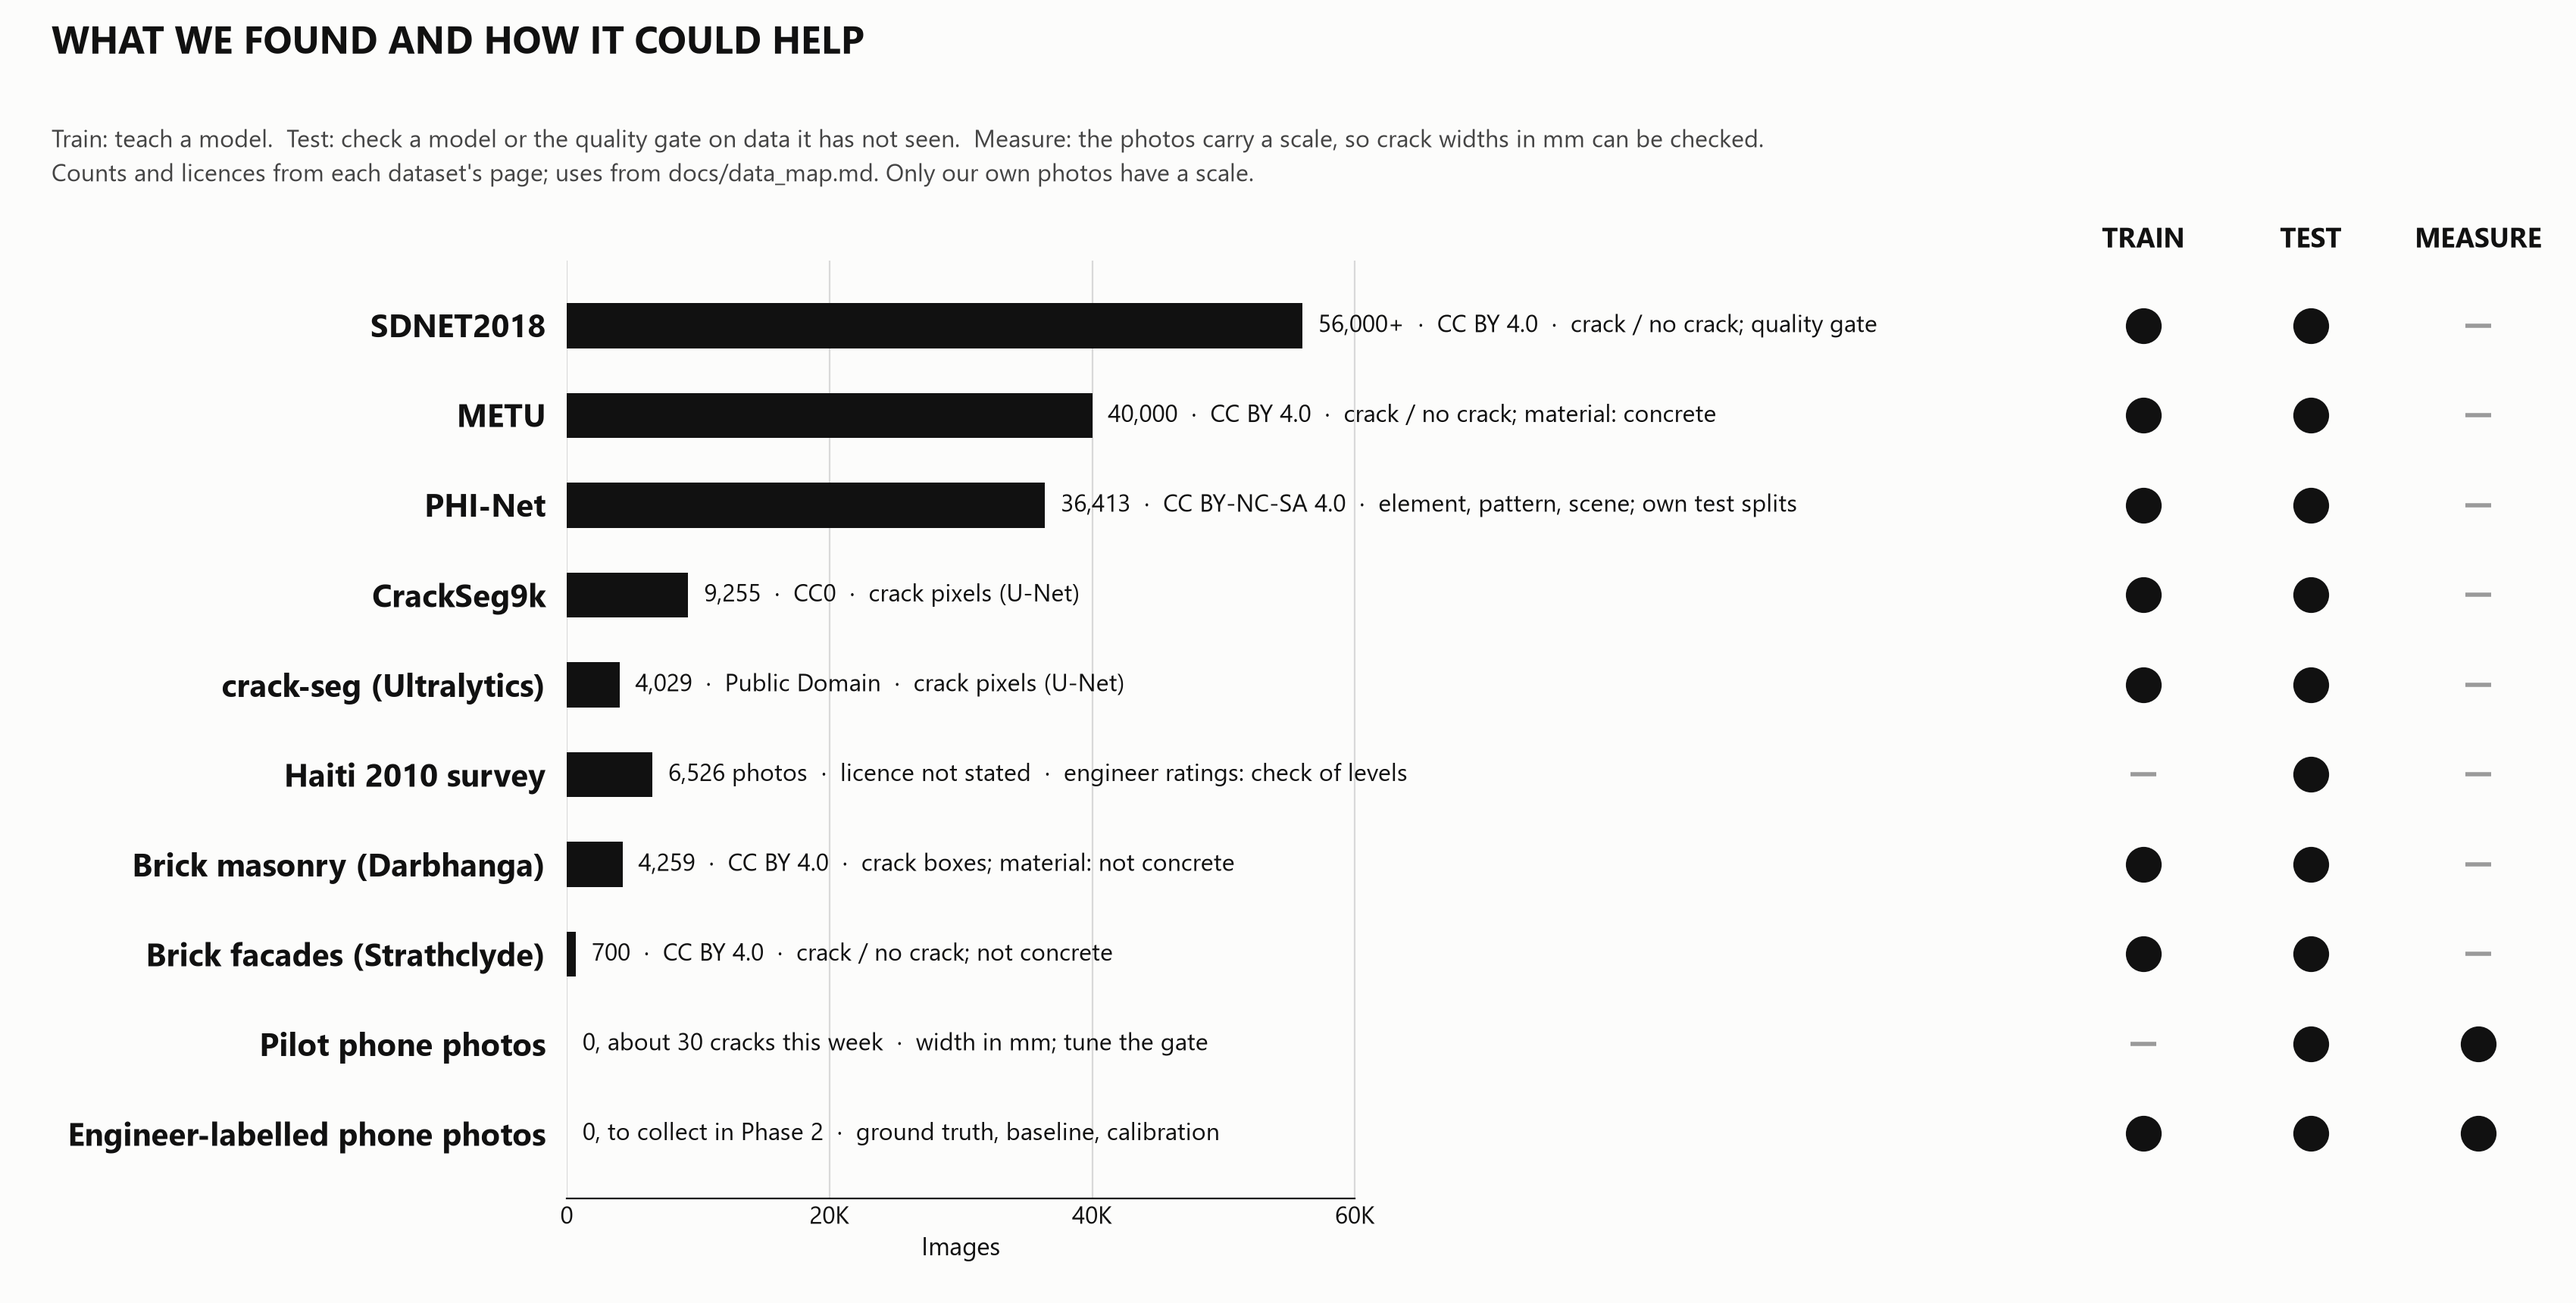
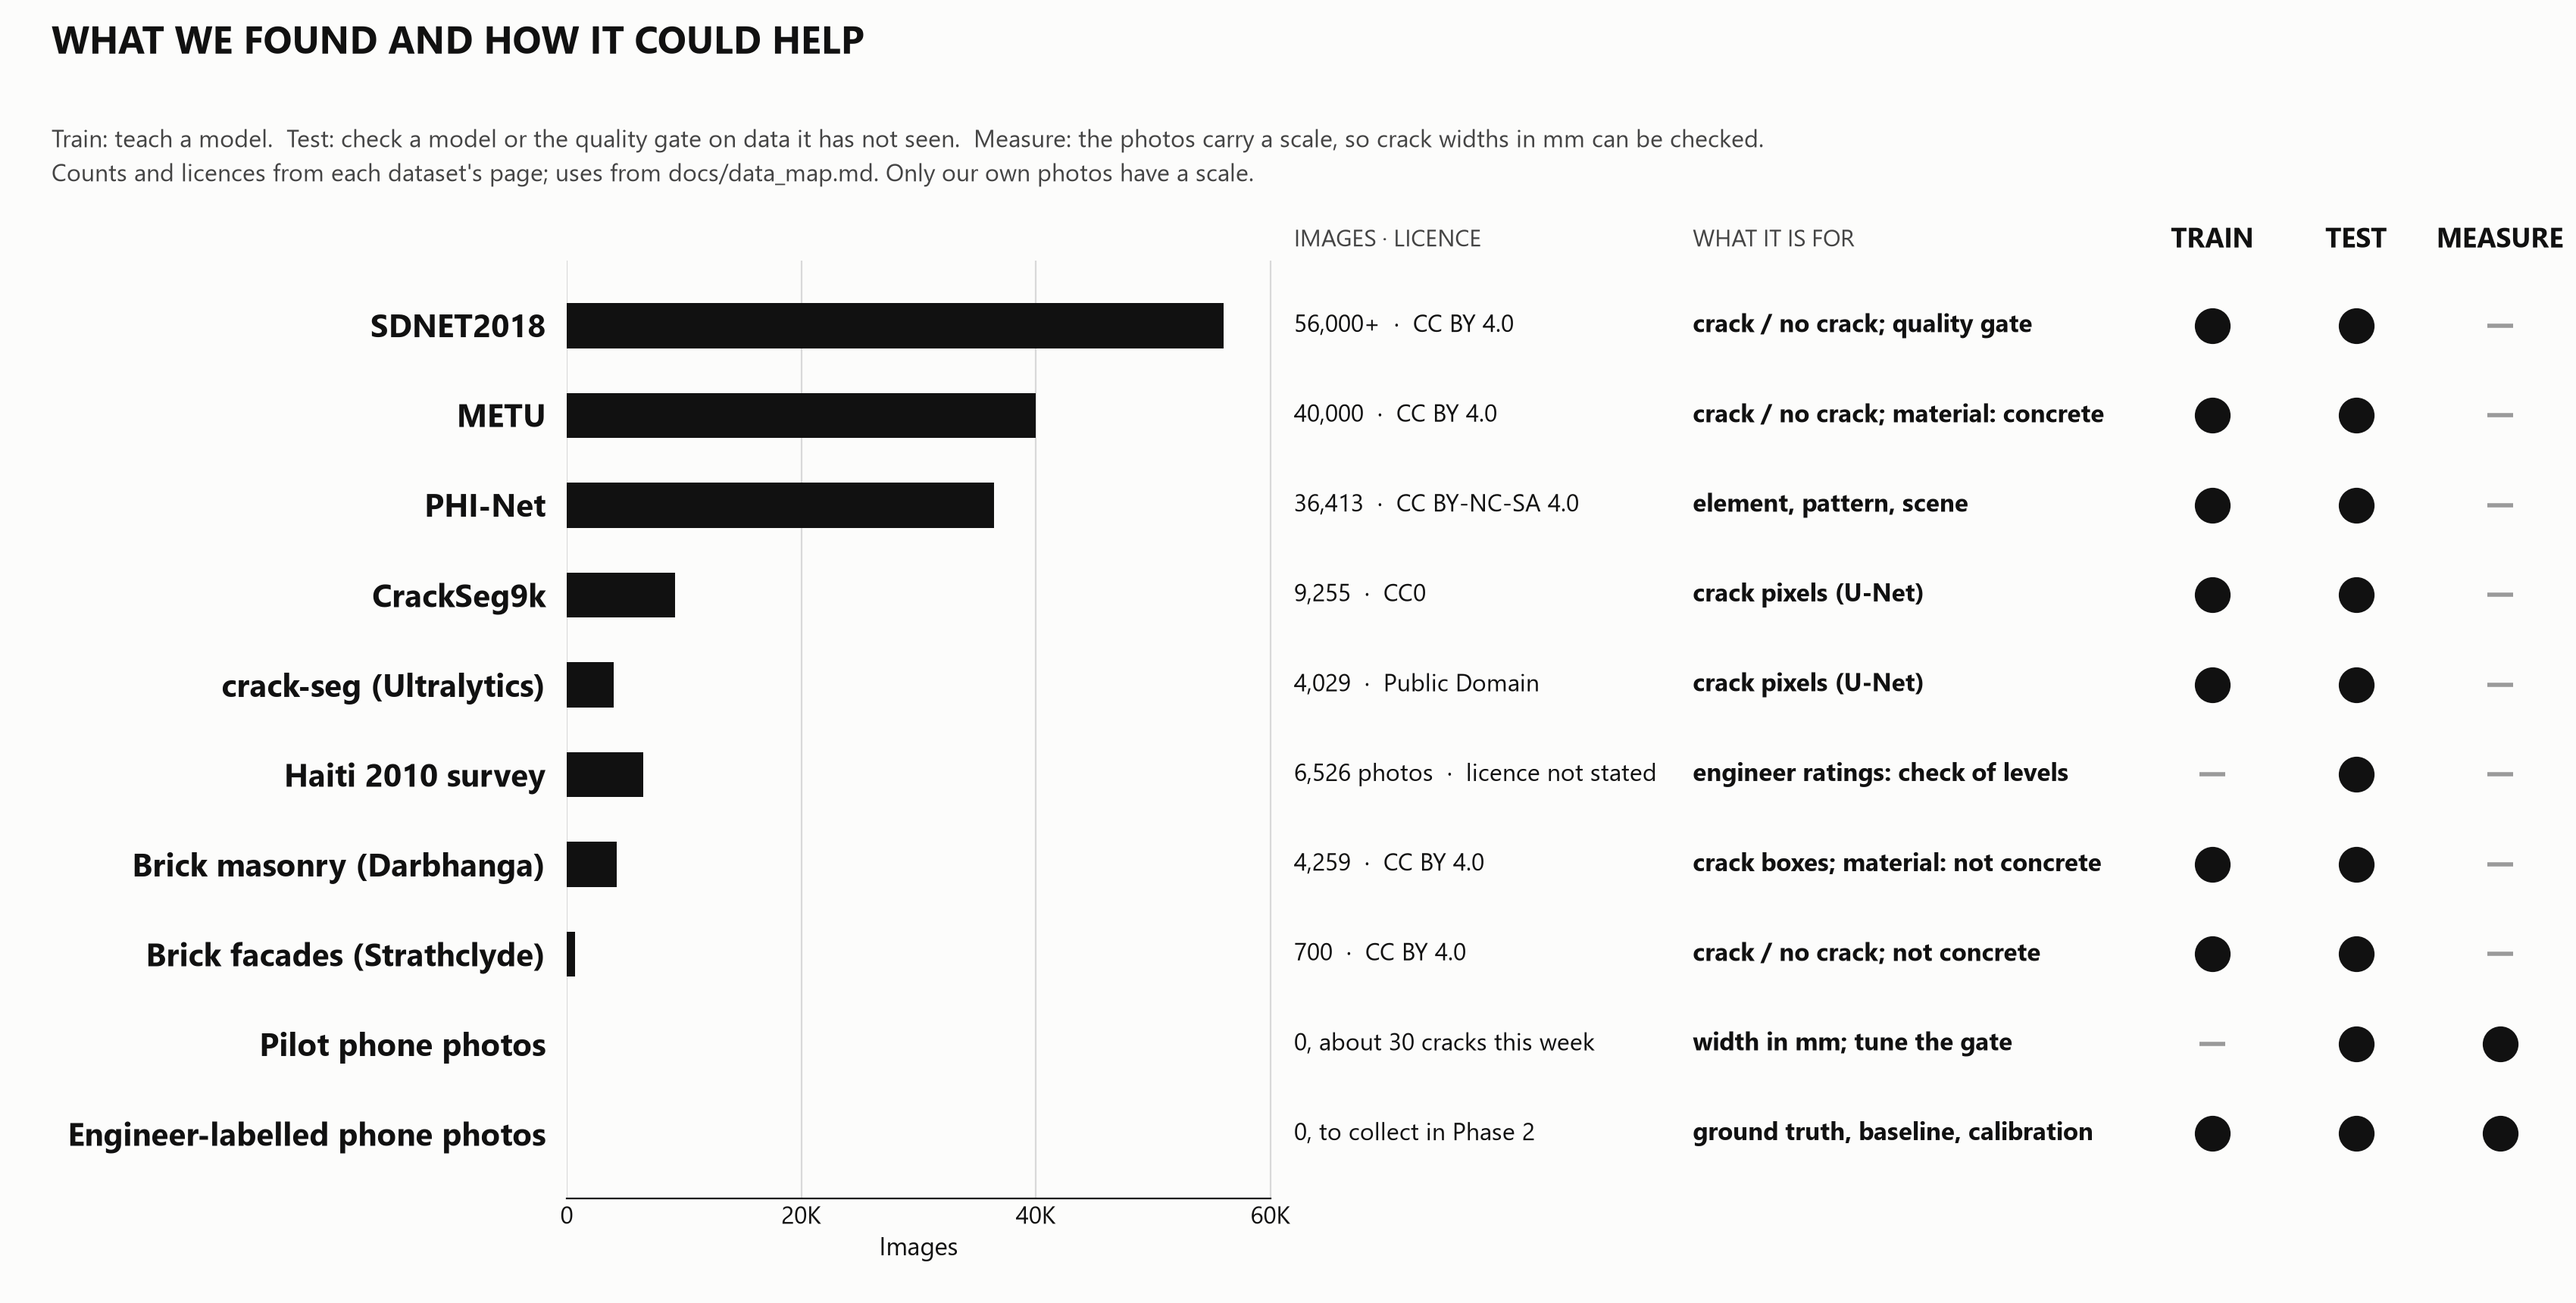
Dataset figure: what each dataset is for in bold, in aligned columns

diff --git a/src/viz/figures.py b/src/viz/figures.py
@@ -834,7 +834,7 @@ def data_coverage():
 DATASETS = [
     ("SDNET2018", 56_000, "56,000+  ·  CC BY 4.0", True, True, False, "crack / no crack; quality gate"),
     ("METU", 40_000, "40,000  ·  CC BY 4.0", True, True, False, "crack / no crack; material: concrete"),
-    ("PHI-Net", 36_413, "36,413  ·  CC BY-NC-SA 4.0", True, True, False, "element, pattern, scene; own test splits"),
+    ("PHI-Net", 36_413, "36,413  ·  CC BY-NC-SA 4.0", True, True, False, "element, pattern, scene"),
     ("CrackSeg9k", 9_255, "9,255  ·  CC0", True, True, False, "crack pixels (U-Net)"),
     ("crack-seg (Ultralytics)", 4_029, "4,029  ·  Public Domain", True, True, False, "crack pixels (U-Net)"),
     ("Haiti 2010 survey", 6_526, "6,526 photos  ·  licence not stated", False, True, False,
@@ -854,15 +854,13 @@ def dataset_sizes():
     names = [d[0] for d in DATASETS]
     ys = range(len(DATASETS))
     ax.barh(ys, [d[1] for d in DATASETS], height=0.5, color=K)
-    for y, (_, n, count, *_flags, what) in zip(ys, DATASETS):
-        ax.text(n + 1200, y, f"{count}  ·  {what}", va="center", fontsize=11.5, color=K)
     ax.set_yticks(list(ys), names)
     for tick in ax.get_yticklabels():
         tick.set_fontsize(15)
         tick.set_fontweight("bold")
         tick.set_color(K)
     ax.invert_yaxis()
-    ax.set_xlim(0, 150_000)
+    ax.set_xlim(0, 168_000)
     ax.set_xticks([0, 20_000, 40_000, 60_000])
     ax.xaxis.set_major_formatter(matplotlib.ticker.FuncFormatter(lambda v, _: f"{v / 1000:.0f}K" if v else "0"))
     ax.tick_params(axis="x", colors=K, labelsize=11.5, length=0)
@@ -874,11 +872,18 @@ def dataset_sizes():
     ax.spines["bottom"].set_bounds(0, 60_000)
     ax.spines["bottom"].set_color(K)
     ax.text(30_000, len(DATASETS) + 0.15, "Images", ha="center", va="top", fontsize=12, color=K)
+    fig.subplots_adjust(left=0.22, right=0.985, top=0.8, bottom=0.08)
+    # two aligned columns after the bars: count and licence, then what the set is for (bold)
+    for y, (_, n, count, *_flags, what) in zip(ys, DATASETS):
+        ax.text(62_000, y, count, va="center", fontsize=11.5, color=K)
+        ax.text(96_000, y, what, va="center", fontsize=12, color=K, weight="bold")
+    ax.text(62_000, -0.95, "IMAGES · LICENCE", va="center", fontsize=11, color="#444444")
+    ax.text(96_000, -0.95, "WHAT IT IS FOR", va="center", fontsize=11, color="#444444")
 
     # what each set can be used for: a filled dot means yes
     trans = ax.get_yaxis_transform()
     for k, head in enumerate(("TRAIN", "TEST", "MEASURE")):
-        x = 0.80 + k * 0.085
+        x = 0.835 + k * 0.073
         ax.text(x, -0.95, head, transform=trans, ha="center", va="center", fontsize=13, weight="bold", color=K)
         for y, row in zip(ys, DATASETS):
             used = row[3 + k]
@@ -890,7 +895,6 @@ def dataset_sizes():
              "Measure: the photos carry a scale, so crack widths in mm can be checked.\nCounts and licences from each "
              "dataset's page; uses from docs/data_map.md. Only our own photos have a scale.", fontsize=11.5,
              color="#444444", va="top", linespacing=1.5)
-    fig.subplots_adjust(left=0.22, right=0.985, top=0.8, bottom=0.08)
     return fig
 
 
